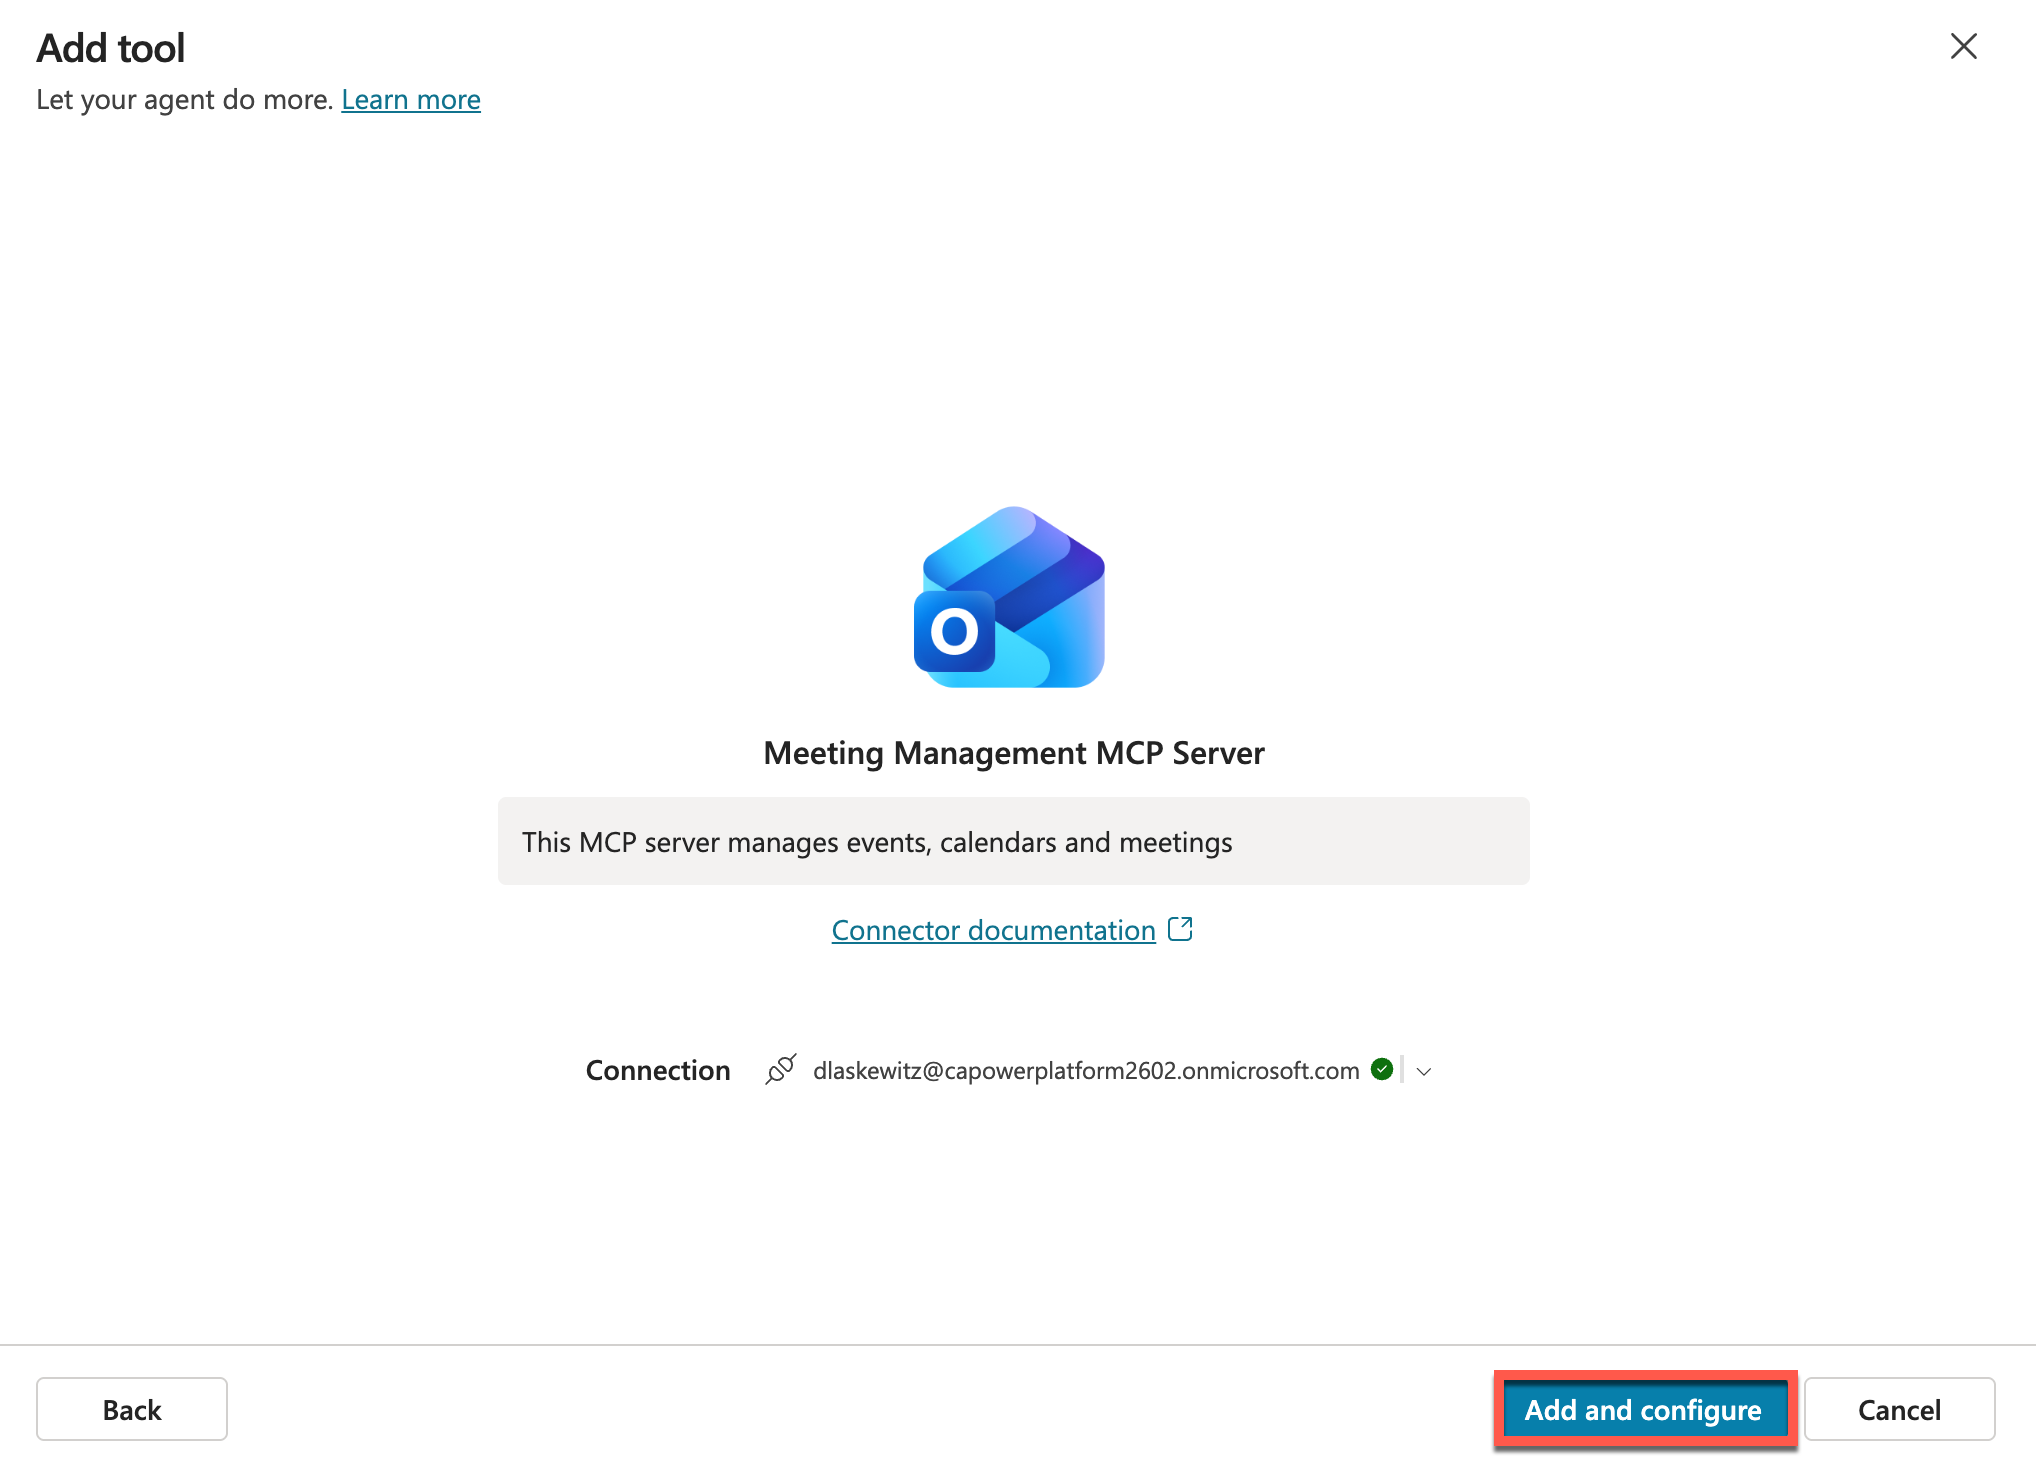
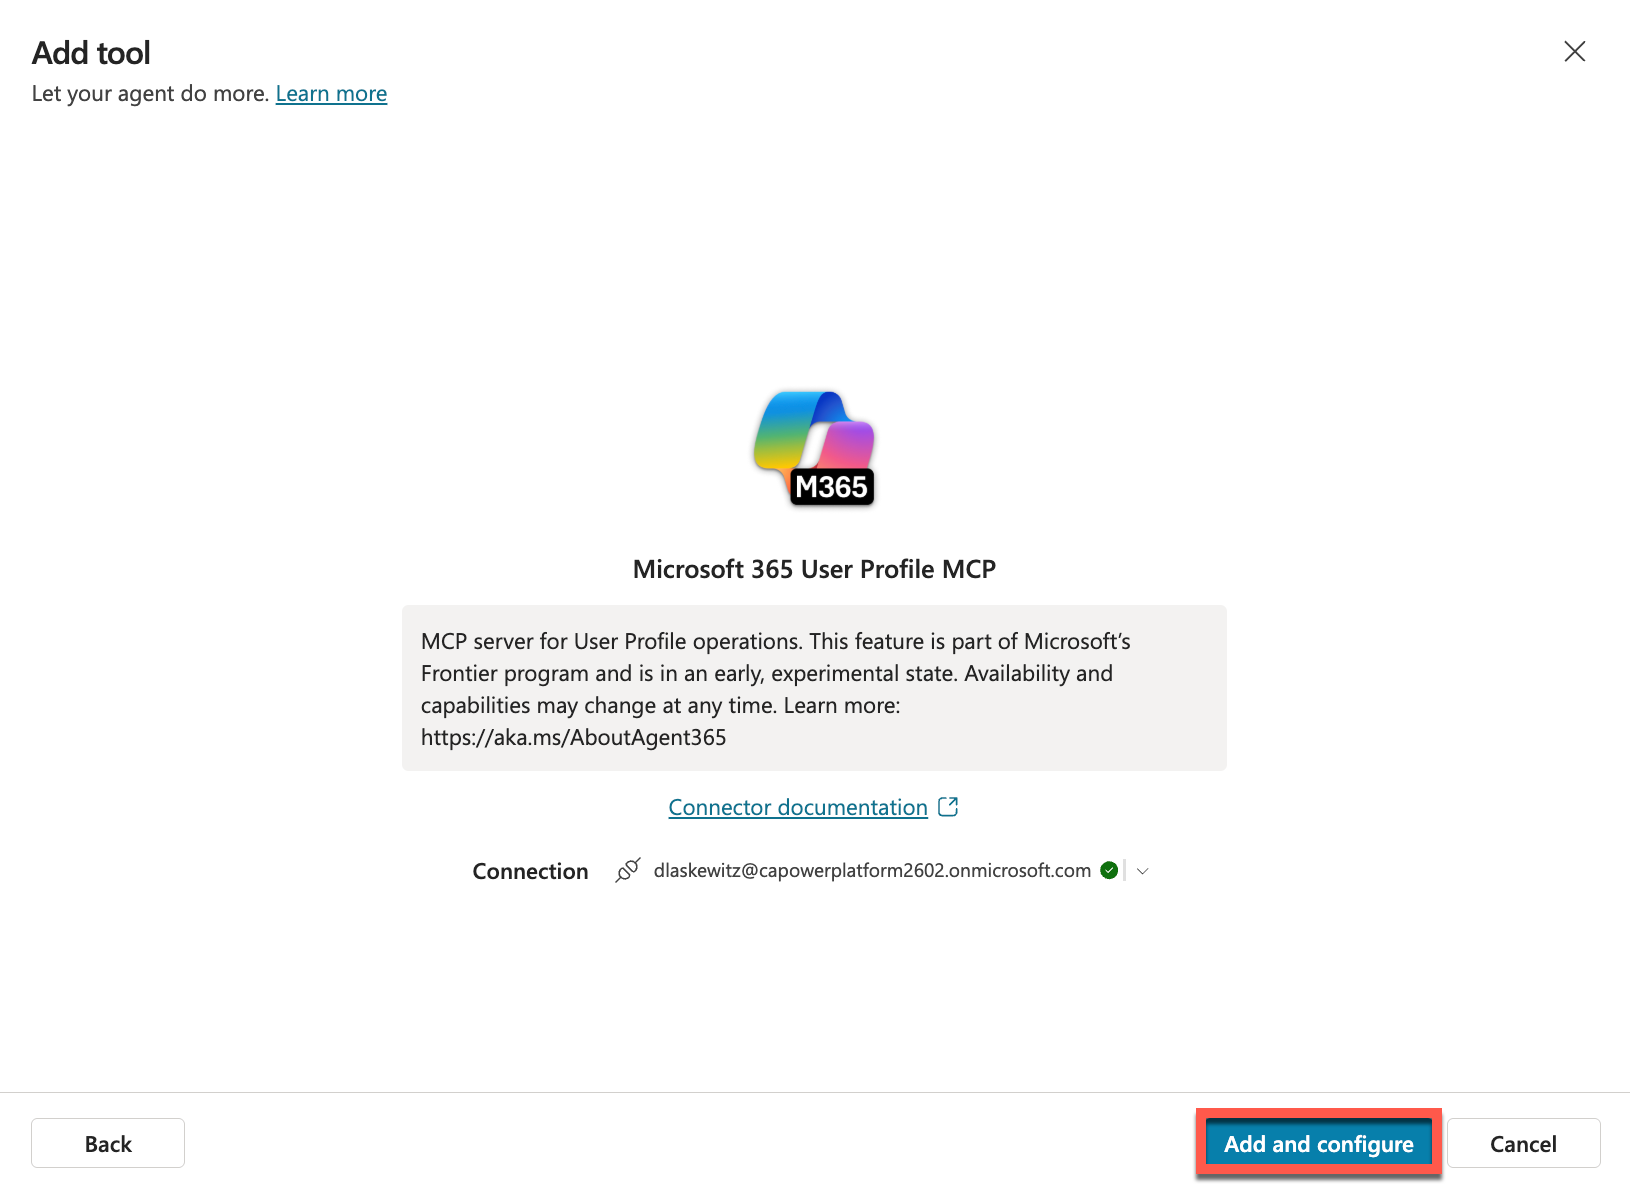
Update MCP lab

diff --git a/docs/operative-preview/10-mcp/README.md b/docs/operative-preview/10-mcp/README.md
@@ -115,9 +115,18 @@ You'll learn how to connect your agent to ready-made tooling servers (like Outlo
 
 Throughout Missions 1-9, you've built a comprehensive hiring automation system. You started by deploying the Hiring Agent and foundational Dataverse infrastructure, then mastered agent instructions to control behavior and communication. You implemented multi-agent orchestration with connected agents and automated workflows with event-driven triggers. Along the way, you personalized agent responses with model selection and formatting, implemented content moderation and AI safety controls, and extracted resume data using multimodal prompts. You enhanced prompts with Dataverse grounding for dynamic data access and generated Word documents with interview prep questions. Now, you'll take your agent's capabilities even further by connecting it to MCP servers.
 
-### Add the Meeting Management MCP Server to the Interview Agent
+### Add MCP servers to the Interview Agent
 
-To add the Meeting Management MCP Server to the Interview Agent you only have to add one tool. This is different to connector tools. You have to add a tool for every connector action with that. The MCP Server makes this a lot easier.
+> [!WARNING]
+> In this lab, you will learn how to add two MCP servers: the *Microsoft 365 User Profile MCP server* and the *Microsoft Outlook Calendar MCP*. In this lab, you will need to have the following added:
+>
+> - Have an appointment on your calendar in the upcoming 24 hours - this is because you will test the MCP server by asking "Get my meetings for today"
+> - Have an extra user created on your tenant, so that you can invite that user for the interview prep-meeting
+> - For that extra user, the mailbox needs to be provisioned and it would be good to set the working days / hours
+
+To add MCP servers to your agent you only have to add one tool per MCP server. This is different to connector tools. You have to add a tool for every connector action with that. The MCP Server makes this a lot easier.
+
+#### Add the Microsoft 365 User Profile MCP server
 
 1. Open [Copilot Studio](https://copilotstudio.microsoft.com) and **open** the previously created Interview Agent
 1. Select **Tools** in the top navigation
@@ -132,9 +141,9 @@ To add the Meeting Management MCP Server to the Interview Agent you only have to
 
     ![Filter the tools to only MCP Servers](./assets/filter-mcp.png)
 
-1. Select the **Meeting Management MCP Server** from the tools list
+1. Select the **Microsoft 365 User Profile MCP server** from the tools list
 
-    ![Select the Meeting Management MCP Server from the tools list](./assets/select-meeting-management-mcp.png)
+    ![Select the User Profile MCP Server from the tools list](./assets/select-user-profile-mcp.png)
 
 1. Select **Create new connection** from the connection dropdown
 
@@ -146,11 +155,94 @@ To add the Meeting Management MCP Server to the Interview Agent you only have to
 
 1. Select **your account** in the pick your account popup to create the connection
 
-1. After picking your account, you will see the following screen. Select **Add and configure** to add the Meeting Management MCP Server tool to the Interview Agent
+1. After picking your account, you will see the following screen. Select **Add and configure** to add the Microsoft 365 User Profile MCP server to the Interview Agent
 
     ![Add and configure Meeting Management MCP Server](./assets/add-and-configure.png)
 
-1.
+1. If you scroll down on the tool overview page, you can find the MCP tools that are part of the MCP server:
+
+    ![Tools overview](./assets/user-profile-mcp-tools.png)
+
+1. Next, select **Test** to test out the newly added tool
+1. Send the following prompt to the agent in the test pane:
+
+    `Who is my manager?`
+
+1. Select **Allow** to consent that you are OK with the MCP server using your data. This consent card will only show once for the agent and this MCP server combination, after you have allowed it for this agent it will not prompt again (unless you add another MCP server that uses the same connector).
+
+    ![Consent card](./assets/user-profile-manager-test-allow.png)
+
+    Next, you will see the response from the agent. If all goes well, you will see something like this:
+
+    ![Who is my manager test](./assets/user-profile-manager-test.png)
+
+    If you look on the left of the *Test your agent* pane, you will see that the agent initialized the MCP server, and it triggered the *getMyManager* MCP tool. You can also see the details of what the agent sent and received from the MCP tool.
+
+    ![Debug MCP tool](./assets/user-profile-manager-test-debug.png)
+
+The first part of the lab is done, you can now ask questions about users on your tenant. This enables you to ask questions like:
+
+    - Who is my manager?
+    - Who are my direct reports?
+    - What is the job role of Daniel Laskewitz?
+    - And much much more...
+
+You can now try out other tools if you want to as well. If you're ready, lets get the other MCP server added too.
+
+#### Add the Microsoft Outlook Calendar MCP server
+
+In the last section, you have added the User Profile MCP server, which makes it possible for you to work with user details on your tenant. This is very helpful when you want to for instance plan meetings, because users of your agent usually don't send a prompt that includes an email / user principal name when they want to plan a meeting. Instead, they will send a prompt like the following:
+
+    `meeting with Daniel Laskewitz tomorrow`
+
+To add capabilities like this, we need to add another MCP server: the Microsoft Outlook Calendar MCP server. Bear with us: the following steps are a lot like the previous section.
+
+1. Select **Tools** at the top navigation
+1. Select **Add a tool**
+1. Filter the tools by selecting **Model Context Protocol**
+1. Scroll down and select the **Microsoft Outlook Calendar MCP Server**
+
+    ![Add Microsoft Outlook Calendar MCP Server](./assets/select-outlook-calendar-mcp.png)
+
+1. Select **Add and configure**
+
+Now, you can scroll to the bottom again to see the tools in the Microsoft Outlook Calendar MCP server:
+
+![Microsoft Outlook Calendar MCP Server tools](./assets/outlook-calendar-mcp-tools.png)
+
+Let's test out this MCP server.
+
+1. Enter the following prompt:
+
+    `Get my meetings for today`
+
+1. The agent will respond with the consent card again, because we added another MCP server. Select **Allow** to consent with the MCP server using your data
+
+    ![Consent card](./assets/outlook-calendar-test-allow.png)
+
+1. Now you will get a response with the meetings you have on your calendar for today:
+
+    ![Get my meetings for today response](./assets/outlook-calendar-test-output.png)
+
+### Plan an interview prep-meeting
+
+Now, we know both the MCP servers work. We want to plan an interview prep-meeting though. So, let's see if that works too!
+
+1. Select **New test session** to start a new test session
+
+    ![New test session](./assets/new-test-session.png)
+
+1. Enter the following prompt:
+
+    `Can you find 3 meeting times for a 30 minute meeting with Jane Doe for an interview prep-meeting?`
+
+    This will trigger the *findMeetingTimes* MCP tool and it will look at the calendars of both the user of the agent and the Jane Doe and figure out which times work based on their availability. It will then respond with three options for meetings:
+
+    ![Find meeting times output](./assets/outlook-calendar-meeting-test-output.png)
+
+    And you will be able to figure out what tools have been called in the testing pane:
+
+    ![Debug](./assets/outlook-calendar-test-debug.png)
 
 ## 🎉 Mission Complete
 
